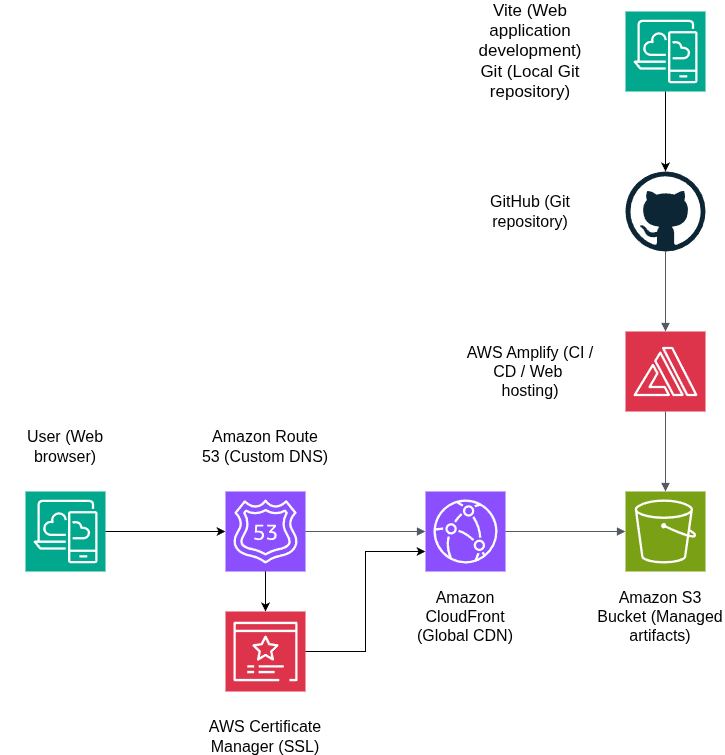
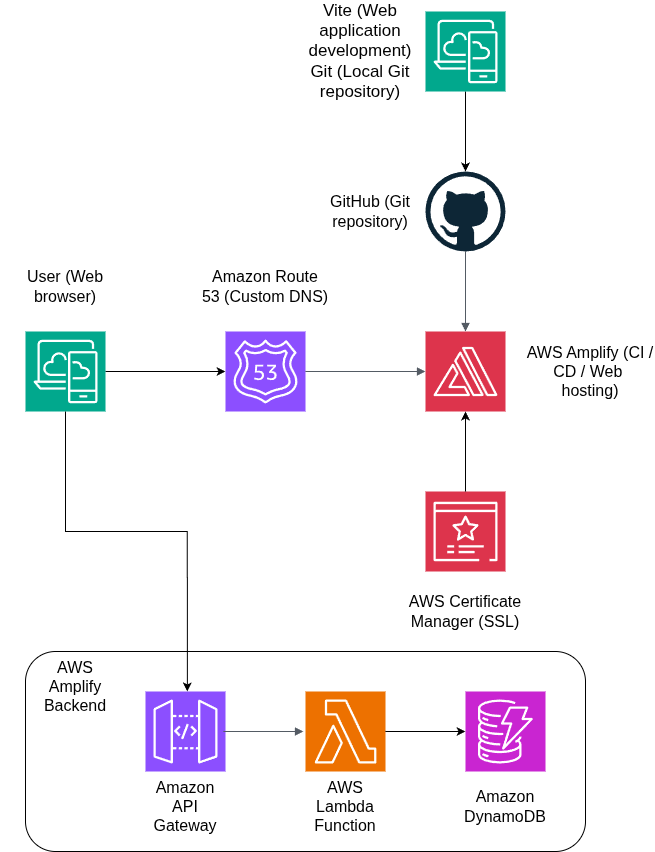
Corrections to the architecture diagram and description.

diff --git a/src/App.jsx b/src/App.jsx
@@ -137,11 +137,12 @@ function App() {
             <p>
                 This diagram illustrates the serverless architecture powering this website. The frontend
                 is built with React and Vite (HTML, CSS, JavaScript). Upon pushing source code to GitHub,
-                AWS Amplify Hosting automatically triggers a managed CI/CD pipeline to deploy the assets.
-                For the backend, the AWS Amplify Data Client manages transactions with Amazon DynamoDB
-                to maintain the global visitor counter. Amazon Route 53 handles DNS management for the
-                custom domain, while Amazon CloudFront ensures secure, global low-latency content delivery,
-                backed by SSL/TLS encryption via AWS Certificate Manager (ACM).
+                AWS Amplify Hosting automatically triggers a managed CI/CD pipeline to deploy the assets
+                and distribute them globally with low latency. Amazon Route 53 handles DNS management for
+                the custom domain, backed by SSL/TLS encryption via AWS Certificate Manager (ACM) attached
+                directly to the hosting provider. For the backend, the user's browser securely communicates
+                with Amazon API Gateway, which triggers an AWS Lambda function to manage transactions with
+                Amazon DynamoDB and maintain the global visitor counter.
             </p>          
         </div>
 	</div>
